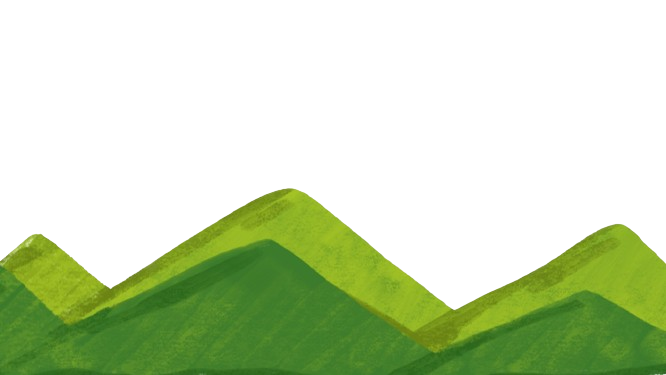
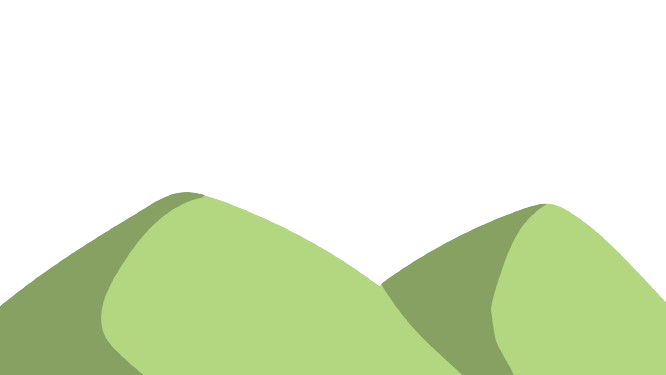
Background test mobile

diff --git a/src/Stages/Stage1.jsx b/src/Stages/Stage1.jsx
@@ -12,21 +12,33 @@ export default function Stage1() {
       <div className="Stage1 animate__animated animate__fadeIn">
         <div className="Page" id="Page1">
           <h1>This page has content</h1>
+          <div className="Backgrounds">
+            <img src={Sun} />
+            <img src={Mountains} />
+            <img src={Trees3} />
+            <img src={Trees2} />
+            <img src={Trees1} />
+          </div>
         </div>
         <div className="Page" id="Page2">
           <h1>This page has content</h1>
+          <div className="Backgrounds"></div>
         </div>
         <div className="Page" id="Page3">
           <h1>This page has content</h1>
+          <div className="Backgrounds"></div>
         </div>
         <div className="Page" id="Page4">
           <h1>This page has content</h1>
+          <div className="Backgrounds"></div>
         </div>
         <div className="Page" id="Page5">
           <h1>This page has content</h1>
+          <div className="Backgrounds"></div>
         </div>
         <div className="Page" id="Page6">
           <h1>This page has content</h1>
+          <div className="Backgrounds"></div>
         </div>
       </div>
     </>

diff --git a/src/index.scss b/src/index.scss
@@ -98,6 +98,7 @@ body {
 .Stage1 {
   scroll-snap-type: y mandatory;
   overflow-y: scroll;
+  overflow-x: hidden;
   height: 100vh;
   .Page {
     scroll-snap-align: center;
@@ -108,19 +109,37 @@ body {
     flex-direction: column;
     align-items: center;
     justify-content: center;
+    position: relative;
+    .Backgrounds {
+      position: absolute;
+      top: 0%;
+      left: 0%;
+      width: 100%;
+      height: 100vh;
+      overflow: hidden;
+      * {
+        position: absolute;
+        bottom: 0%;
+        left: 0%;
+        width: 100%;
+      }
+    }
     & > *:not(.Backgrounds) {
+      z-index: 10;
     }
-    #Page1 {
+    &#Page1 {
+      background-color: cyan;
+      outline: 4px solid red;
     }
-    #Page2 {
+    &#Page2 {
     }
-    #Page3 {
+    &#Page3 {
     }
-    #Page4 {
+    &#Page4 {
     }
-    #Page5 {
+    &#Page5 {
     }
-    #Page6 {
+    &#Page6 {
     }
   }
 }

diff --git a/src/index.css b/src/index.css
@@ -91,6 +91,7 @@ body:has(.Stage1) {
 .Stage1 {
   scroll-snap-type: y mandatory;
   overflow-y: scroll;
+  overflow-x: hidden;
   height: 100vh;
 }
 .Stage1 .Page {
@@ -102,4 +103,26 @@ body:has(.Stage1) {
   flex-direction: column;
   align-items: center;
   justify-content: center;
+  position: relative;
+}
+.Stage1 .Page .Backgrounds {
+  position: absolute;
+  top: 0%;
+  left: 0%;
+  width: 100%;
+  height: 100vh;
+  overflow: hidden;
+}
+.Stage1 .Page .Backgrounds * {
+  position: absolute;
+  bottom: 0%;
+  left: 0%;
+  width: 100%;
+}
+.Stage1 .Page > *:not(.Backgrounds) {
+  z-index: 10;
+}
+.Stage1 .Page#Page1 {
+  background-color: cyan;
+  outline: 4px solid red;
 }/*# sourceMappingURL=index.css.map */
